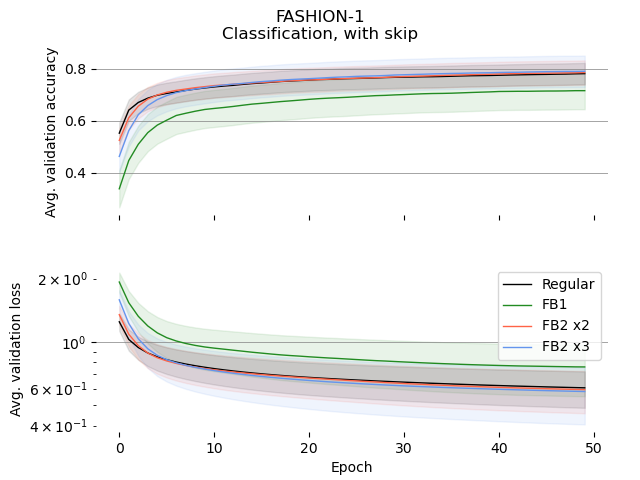
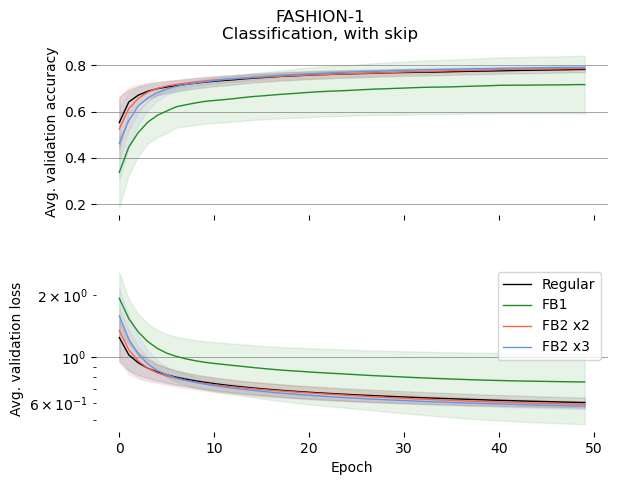
Fix bug. Std wrongly calculated. Corrected.

diff --git a/documentation/comparison.py b/documentation/comparison.py
@@ -59,17 +59,17 @@ for problem in os.listdir("./output/compare/"):
                     continue
                 name = configuration.replace(f"-{skip}-{which}", "").replace("x", " x").replace("REGULAR", "Regular")
 
-                loss = [
+                _loss = [
                     data[configuration][run]["train"]["val-loss"]
                     for run in data[configuration].keys()
                 ]
-                _len = max([len(l) for l in loss])
-                loss = [
+                _len = max([len(l) for l in _loss])
+                _loss = [
                     np.pad(l, (0, _len - len(l)), mode='constant', constant_values=np.nan)
-                    for l in loss
+                    for l in _loss
                 ]
-                loss = np.nanmean(loss, axis=0)
-                lstd = np.nanstd(loss, axis=0)
+                loss = np.nanmean(_loss, axis=0)
+                lstd = np.nanstd(_loss, axis=0)
                 ax_loss.plot(
                     loss,
                     label=name,
@@ -85,17 +85,17 @@ for problem in os.listdir("./output/compare/"):
                 )
                 ax_loss.set_yscale('log')
 
-                accr = [
+                _accr = [
                     data[configuration][run]["train"]["val-acc"]
                     for run in data[configuration].keys()
                 ]
-                _len = max([len(a) for a in accr])
-                accr = [
+                _len = max([len(a) for a in _accr])
+                _accr = [
                     np.pad(a, (0, _len - len(a)), mode='constant', constant_values=np.nan)
-                    for a in accr
+                    for a in _accr
                 ]
-                accr = np.nanmean(accr, axis=0)
-                astd = np.nanstd(accr, axis=0)
+                accr = np.nanmean(_accr, axis=0)
+                astd = np.nanstd(_accr, axis=0)
                 ax_acc.plot(
                     accr,
                     label=name,
